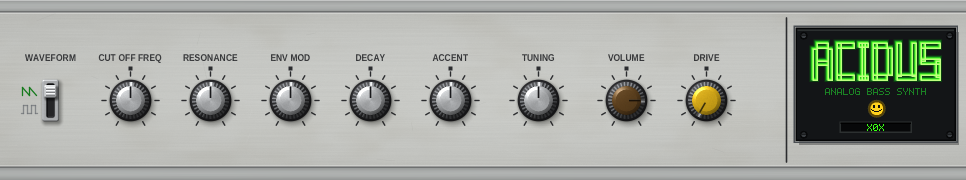
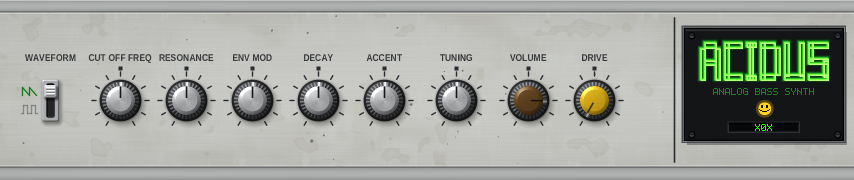
GUI: knobs closer together, more panel wear in the modern skin
- Knobs sit 66 px apart (was 80), close enough that neighbouring 3 and
  9 o'clock ticks nearly meet as on the 303; the panel shrinks from 966
  to 854 px wide. 66 is the closest the retro skin's 5x7 labels allow
  before CUT OFF FREQ runs into RESONANCE.
- Modern skin: the per-control pixel cache now covers only the dial and
  shadow, not the label, so cached areas cannot overlap at this spacing.
- Modern skin wear: heavier grime, a few dried stains, paint rubbed thin
  along the edges and in patches, small chips flaked down to the
  primer, and more scratches.

Claude-Session: https://claude.ai/code/session_018QH8RkxMHhUAMvdq6H6Ar2

Changed region(s): [[0.0, 0.1111, 1.0, 0.8889], [0.8525, 0.5556, 0.9438, 0.75]]

diff --git a/src/gui/modern/ModernSkin.cpp b/src/gui/modern/ModernSkin.cpp
@@ -217,7 +217,17 @@ void paintPanel(Graphics& g, int width, int height, int dividerX) {
             const float edge = std::min(std::min(y, height - y) / 40.f, 1.f);
             const float grime = smoothstep(0.45f, 0.85f, fbm(x / 70.f, y / 45.f, 9)) * 0.55f
                                 + (1.f - edge) * 0.35f;
-            c = mix(c, grimeTint, 0.16f * grime);
+            c = mix(c, grimeTint, 0.24f * grime);
+            // Old stains: a few faint brownish blotches with darker rims,
+            // where something was spilled and dried.
+            const float stain = fbm(x / 34.f, y / 30.f, 13);
+            const float blot = smoothstep(0.70f, 0.73f, stain) * (1.f - 0.5f * smoothstep(0.73f, 0.78f, stain));
+            c = mix(c, Color{ 0.52f, 0.47f, 0.38f }, 0.12f * blot);
+            // Paint rubbed thin by hands along the panel's edges and in a
+            // few worn patches: brighter, smoother metal shows through.
+            const float rubBand = 1.f - smoothstep(14.f, 24.f, std::min(y, height - y));
+            const float rub = smoothstep(0.55f, 0.75f, fbm(x / 9.f, y / 30.f, 17)) * (0.35f + 0.65f * rubBand);
+            c = mix(c, Color{ 0.86f, 0.87f, 0.86f }, 0.30f * rub);
             // Gentle vignette.
             const float vx = (x / width - 0.5f) * 2.f, vy = (y / height - 0.5f) * 2.f;
             shade *= 1.f - 0.06f * (vx * vx * 0.5f + vy * vy);
@@ -241,12 +251,28 @@ void paintPanel(Graphics& g, int width, int height, int dividerX) {
     // Light scratches and scuffs from years of use.
     uint32_t seed = 0xAC1D;
     auto rnd = [&seed]() { seed = hashU(seed + 0x9E3779B9u); return (seed & 0xFFFFFF) / 16777216.f; };
-    for (int i = 0; i < 40; ++i) {
+    for (int i = 0; i < 70; ++i) {
         const float x = rnd() * dividerX, y = 16.f + rnd() * (height - 32.f);
         const float len = 3.f + 22.f * rnd() * rnd();
         const float ang = (rnd() - 0.5f) * 0.9f + (rnd() < 0.3f ? kPi / 2 : 0.f);
-        const uint32_t col = rnd() < 0.7f ? 0x18FFFFFFu : 0x0E000000u;
+        const uint32_t col = rnd() < 0.7f ? 0x22FFFFFFu : 0x14000000u;
         drawLineAA(g, x, y, x + len * std::cos(ang), y + len * std::sin(ang), 0.35f, col);
+    }
+
+    // Small chips where the paint has flaked off down to the dark primer,
+    // with a lit lower-right edge where the paint layer stands proud.
+    for (int i = 0; i < 28; ++i) {
+        const float x = 4.f + rnd() * (dividerX - 8.f), y = 15.f + rnd() * (height - 30.f);
+        const float r = 0.5f + 1.6f * rnd() * rnd();
+        const uint32_t chipSeed = 100 + i;
+        shadeBox(g, x - r - 2, y - r - 2, x + r + 2, y + r + 2, [&](float px, float py) {
+            const float dx = px - x, dy = py - y;
+            const float wobble = 1.f + 0.45f * (valueNoise(px * 1.3f, py * 1.3f, chipSeed) - 0.5f);
+            const float d = std::sqrt(dx * dx + dy * dy) / (r * wobble);
+            if (d < 1.f) return toArgb({ 0.42f, 0.42f, 0.41f }, 0.85f * smoothstep(1.f, 0.8f, d));
+            if (d < 1.35f && dx + dy > 0.f) return toArgb({ 1.f, 1.f, 1.f }, 0.35f * (1.35f - d) / 0.35f);
+            return 0u;
+        });
     }
 
     // The printed divider before the logo plate.
@@ -448,23 +474,23 @@ public:
     void drawKnob(Graphics& g, const Control& ctrl, const Font&) override {
         const float cx = ctrl.x + 0.5f, cy = ctrl.y + 0.5f, r = static_cast<float>(ctrl.radius);
         const float labelTop = static_cast<float>(ctrl.y - ctrl.radius - kLabelGap);
-        const float halfW = std::max(r + 11.f, ctrl.label ? labelWidth(ctrl.label) / 2.f + 2.f : 0.f);
-        if (restore(g, ctrl, cx - halfW, labelTop - 2.f, cx + halfW, cy + r + 14.f)) return;
+        // Labels are not cached: they can be wider than the knob and the
+        // knobs sit close, so the cached areas cover only dial and shadow.
+        drawLabel(g, ctrl.label, cx, labelTop, kInk);
+        if (restore(g, ctrl, cx - r - 11.f, cy - r - 15.f, cx + r + 11.f, cy + r + 14.f)) return;
         double norm = (ctrl.currentVal - ctrl.minVal) / (ctrl.maxVal - ctrl.minVal);
         norm = std::isfinite(norm) ? std::min(std::max(norm, 0.0), 1.0) : 0.0;
         drawKnobDial(g, cx, cy, r);
         drawKnobBody(g, cx, cy, r, kStartAngle + static_cast<float>(norm) * kTotalAngle, ctrl.accentColor);
-        drawLabel(g, ctrl.label, cx, labelTop, kInk);
         store(g);
     }
 
     void drawToggleSwitch(Graphics& g, const Control& ctrl, const Font&) override {
         const float cx = ctrl.x + 0.5f, cy = ctrl.y + 0.5f;
         const float labelTop = static_cast<float>(ctrl.y - 20 - kLabelGap);
-        const float halfW = std::max(32.f, ctrl.label ? labelWidth(ctrl.label) / 2.f + 2.f : 0.f);
-        if (restore(g, ctrl, cx - halfW, labelTop - 2.f, cx + halfW, cy + 29.f)) return;
-        const bool isSquare = ctrl.currentVal >= 0.5;
         drawLabel(g, ctrl.label, cx, labelTop, kInk);
+        if (restore(g, ctrl, cx - 32.f, cy - 26.f, cx + 32.f, cy + 29.f)) return;
+        const bool isSquare = ctrl.currentVal >= 0.5;
         drawSwitchBody(g, cx, cy, isSquare);
 
         // Waveform symbols beside the two positions, the active one in
@@ -488,8 +514,9 @@ private:
     // Shading a knob costs far more than copying it, and while one knob is
     // dragged the others redraw unchanged. So each control's finished
     // pixels are kept, keyed by its value, and copied back on a repeat. The
-    // area is the control's own (dial, shadow, label), over the cached
-    // panel, so it is the same every time the value is.
+    // area is the control's own (dial and shadow, not overlapping its
+    // neighbours'), over the cached panel, so it is the same every time
+    // the value is.
     struct Sprite {
         int id{-1};
         double value{0.0};

diff --git a/src/gui/GuiWindow.cpp b/src/gui/GuiWindow.cpp
@@ -38,27 +38,27 @@ void GuiWindow::initControls() {
     controls_.push_back({ PARAM_WAVEFORM, "WAVEFORM", ControlType::ToggleSwitch, 50, 100, 17, 0.0, 1.0, 0.0, true });
 
     // 5 Main Knobs, labelled as on the TB-303 panel.
-    controls_.push_back({ PARAM_CUTOFF, "CUT OFF FREQ", ControlType::Knob, 130, 100, 20, 0.0, 1.0, 0.5, false });
-    controls_.push_back({ PARAM_RESONANCE, "RESONANCE", ControlType::Knob, 210, 100, 20, 0.0, 1.0, 0.5, false });
-    controls_.push_back({ PARAM_ENV_MOD, "ENV MOD", ControlType::Knob, 290, 100, 20, 0.0, 1.0, 0.5, false });
-    controls_.push_back({ PARAM_DECAY, "DECAY", ControlType::Knob, 370, 100, 20, 0.0, 1.0, 0.5, false });
-    controls_.push_back({ PARAM_ACCENT, "ACCENT", ControlType::Knob, 450, 100, 20, 0.0, 1.0, 0.5, false });
+    controls_.push_back({ PARAM_CUTOFF, "CUT OFF FREQ", ControlType::Knob, 120, 100, 20, 0.0, 1.0, 0.5, false });
+    controls_.push_back({ PARAM_RESONANCE, "RESONANCE", ControlType::Knob, 186, 100, 20, 0.0, 1.0, 0.5, false });
+    controls_.push_back({ PARAM_ENV_MOD, "ENV MOD", ControlType::Knob, 252, 100, 20, 0.0, 1.0, 0.5, false });
+    controls_.push_back({ PARAM_DECAY, "DECAY", ControlType::Knob, 318, 100, 20, 0.0, 1.0, 0.5, false });
+    controls_.push_back({ PARAM_ACCENT, "ACCENT", ControlType::Knob, 384, 100, 20, 0.0, 1.0, 0.5, false });
 
     // Tuning trim, a real front-panel-equivalent control (TB303_RESEARCH_
     // COMPENDIUM.md documents a 50 kΩ "B" Tuning pot alongside Cutoff/Env
     // Mod/Decay/Accent) -- range matches the hardware's documented ±700
     // cent trim travel, for nudging the plugin into tune against a
     // reference recording that's itself slightly off-pitch.
-    controls_.push_back({ PARAM_TUNE, "TUNING", ControlType::Knob, 538, 100, 20, -700.0, 700.0, 0.0, false });
+    controls_.push_back({ PARAM_TUNE, "TUNING", ControlType::Knob, 456, 100, 20, -700.0, 700.0, 0.0, false });
 
     // Panel order follows the signal: the 303's Volume, then the pedal it
     // drives. Master Volume Knob, set apart with its own accent color.
-    controls_.push_back({ PARAM_VOLUME, "VOLUME", ControlType::Knob, 626, 100, 20, 0.0, 1.0, 0.8, false });
+    controls_.push_back({ PARAM_VOLUME, "VOLUME", ControlType::Knob, 528, 100, 20, 0.0, 1.0, 0.8, false });
     controls_.back().accentColor = 0xFF6B4A22; // warm amber, distinct from the graphite knobs
 
     // MXR Distortion+ drive, capped in the pedal's yellow. Fully
     // counter-clockwise (0.0) bypasses the pedal entirely.
-    controls_.push_back({ PARAM_DRIVE, "DRIVE", ControlType::Knob, 706, 100, 20, 0.0, 1.0, 0.0, false });
+    controls_.push_back({ PARAM_DRIVE, "DRIVE", ControlType::Knob, 594, 100, 20, 0.0, 1.0, 0.0, false });
     controls_.back().accentColor = 0xFFF5C21B; // MXR Distortion+ yellow, marks the pedal
 
     updateKnobValuesFromPlugin();

diff --git a/src/gui_test_main.cpp b/src/gui_test_main.cpp
@@ -56,8 +56,8 @@ int main() {
     mockOutList.ctx = &testCtx;
     mockOutList.try_push = TestOutEvents::tryPush;
 
-    gui.handleMouseDown(130, 100, false);
-    gui.handleMouseDrag(130, 20, false); // Drag up 80 pixels
+    gui.handleMouseDown(120, 100, false);
+    gui.handleMouseDrag(120, 20, false); // Drag up 80 pixels
     gui.handleMouseUp();
 
     double valNormal = 0.0;
@@ -73,8 +73,8 @@ int main() {
     assert(testCtx.paramIds.front() == acidus::PARAM_CUTOFF);
     std::cout << "GUI output event gesture queue test passed successfully! Events recorded: " << testCtx.types.size() << std::endl;
 
-    gui.handleMouseDown(210, 100, true); // Resonance knob at (210, 100) with Shift
-    gui.handleMouseDrag(210, 20, true);  // Drag up 80 pixels with Shift
+    gui.handleMouseDown(186, 100, true); // Resonance knob at (186, 100) with Shift
+    gui.handleMouseDrag(186, 20, true);  // Drag up 80 pixels with Shift
     gui.handleMouseUp();
 
     double valFine = 0.0;
@@ -83,10 +83,10 @@ int main() {
     assert(std::abs(valFine - 0.70) < 0.01);
 
     // Double-click on a knob resets it to its default, without dragging.
-    gui.handleMouseDown(210, 100, false);
+    gui.handleMouseDown(186, 100, false);
     gui.handleMouseUp();
-    gui.handleMouseDown(210, 100, false);
-    gui.handleMouseDrag(210, 20, false);   // ignored: the double-click started no drag
+    gui.handleMouseDown(186, 100, false);
+    gui.handleMouseDrag(186, 20, false);   // ignored: the double-click started no drag
     gui.handleMouseUp();
     double valReset = 0.0, resDefault = -1.0;
     plugin.paramsValue(acidus::PARAM_RESONANCE, &valReset);

diff --git a/src/gui/GuiWindow.hpp b/src/gui/GuiWindow.hpp
@@ -39,7 +39,7 @@ struct Control {
 class GuiWindow {
 public:
     // The panel's fixed size, as reported to the host.
-    static constexpr uint32_t kDefaultWidth = 966;
+    static constexpr uint32_t kDefaultWidth = 854;
     static constexpr uint32_t kDefaultHeight = 180;
 
     explicit GuiWindow(AcidusClap* plugin);

diff --git a/README.md b/README.md
@@ -304,7 +304,8 @@ cmake -B build-modern -DCMAKE_BUILD_TYPE=Release -DACIDUS_GUI_STYLE=MODERN
 
   ![Retro GUI](docs/images/gui_retro.png)
 
-- **MODERN**: a worn, silver-painted 303 panel (brushed grain, grime,
+- **MODERN**: a worn, silver-painted 303 panel (brushed grain, grime, stains,
+  paint rubbed thin at the edges, flaked chips,
   scratches) with knobs shaded per pixel like the 303's: dark foot ring,
   knurled grip with a pointer nub, polished chamfer and a spun-metal top
   with an incised pointer line, lit from the upper left with soft shadows.
